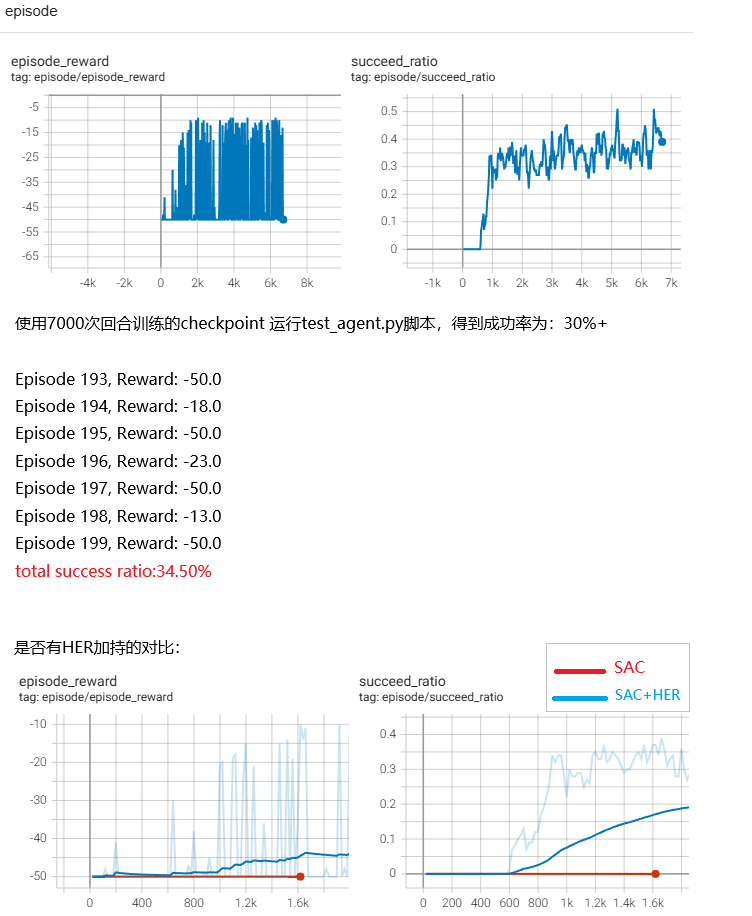
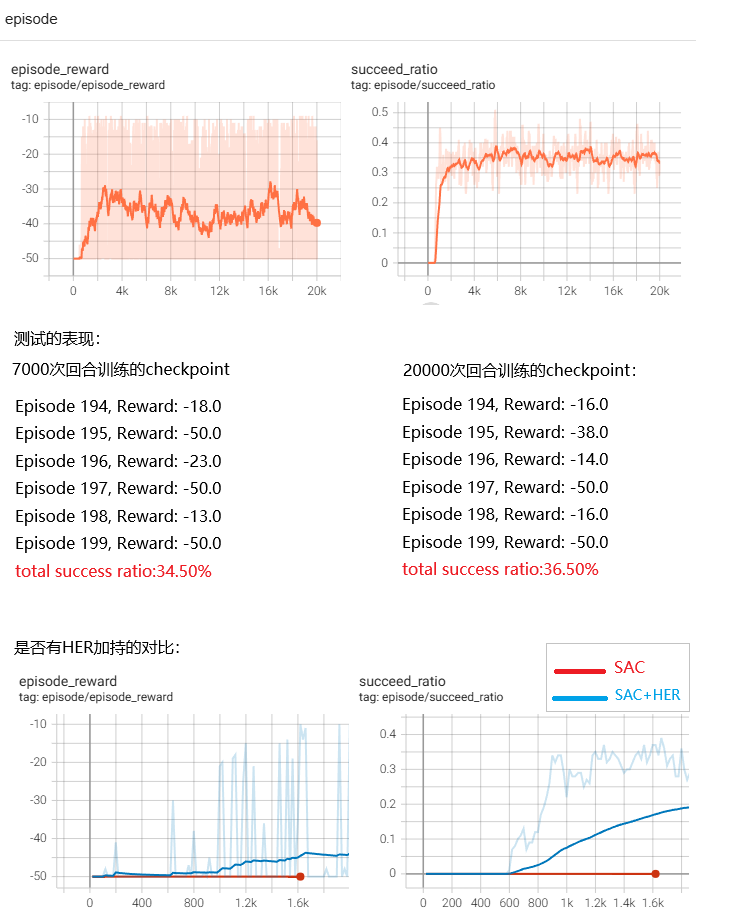
x

diff --git a/HER.md b/HER.md
@@ -684,64 +684,70 @@ def main():
     device = "cpu"
 
     # Initialize SAC agent
-    sac = SAC(state_dim, action_dim, device=device)
+    sac = SAC(state_dim, action_dim, device=device, writer=writer)
     save_dir = "checkpoints/"
     os.makedirs(save_dir, exist_ok=True)
 
     # Set hyperparameters
-    max_episodes = 20000 # max number of episodes to stop training
+    max_episodes = 10000 # max number of episodes to stop training
     steps_cnt = 0
     episode_length = env._max_episode_steps # the default is 50
-    batch_size = 256
+    batch_size = 128
     num_random_episodes = batch_size
     save = True
     success_record = deque(maxlen=100)
 
     for episode in range(max_episodes):
-        obs, _ = env.reset()
-        episode_reward = 0
-        trajectory = []
+        # 按照论文的描述，调整为：
+        # 每个episode做两个事情：
+        # 1、收集 16次轨迹
+        # 2、对model做40次mini-batch update
+        for _ in range(16):
+            obs, _ = env.reset()
+            episode_reward = 0
+            trajectory = []
 
-        for t in range(episode_length):
-            # Create the state input by concatenating observation and desired goal
-            state = np.concatenate([obs['observation'], obs['desired_goal']])
+            for t in range(episode_length):
+                # Create the state input by concatenating observation and desired goal
+                state = np.concatenate([obs['observation'], obs['desired_goal']])
 
-            # Select action
-            action = sac.select_action(state)
+                # Select action
+                action = sac.select_action(state)
 
-            # Step in the environment
-            next_obs, reward, terminated, truncated, _ = env.step(action)
-            done = terminated or truncated
-            steps_cnt += 1
+                # Step in the environment
+                next_obs, reward, terminated, truncated, _ = env.step(action)
+                done = terminated or truncated
+                steps_cnt += 1
 
 
-            # Append transition to trajectory
-            trajectory.append((obs, action, reward, next_obs, done))
-            obs = next_obs
-            episode_reward += reward
+                # Append transition to trajectory
+                trajectory.append((obs, action, reward, next_obs, done))
+                obs = next_obs
+                episode_reward += reward
 
-            if done:
-                break
+                if done:
+                    break
 
-        # Store trajectory in the HER replay buffer
-        sac.replay_buffer.store_trajectory(trajectory)
+            # Store trajectory in the HER replay buffer
+            sac.replay_buffer.store_trajectory(trajectory)
 
-        # Train the SAC agent, 这样写有点奇怪，一般不是写在时间步的循环里嘛
-        if len(sac.replay_buffer) > num_random_episodes*4:
-            for _ in range(episode_length):
+            # Define success (if last position is within 0.05 of the goal)
+            success = np.linalg.norm(obs['achieved_goal'] - obs['desired_goal']) < 0.05
+            success_record.append(success)
+
+        # Train the SAC agent
+        if len(sac.replay_buffer) > num_random_episodes:
+            for _ in range(40):
                 sac.update(batch_size)
 
-        # Define success (if last position is within 0.05 of the goal)
-        success = np.linalg.norm(obs['achieved_goal'] - obs['desired_goal']) < 0.05
-        success_record.append(success)
 
-        if (episode+1) % 20 == 0:
-            writer.add_scalar("episode/succeed_ratio", success_record.count(1) / 100.0, episode)
-            writer.add_scalar("episode/episode_reward", episode_reward, episode)
-            print(f"Episode {episode}, Reward: {episode_reward}, Succcess: {success}")
+
+        writer.add_scalar("episode/succeed_ratio", success_record.count(1) / 100.0, episode)
+        writer.add_scalar("episode/episode_reward", episode_reward, episode)
+        print(f"Episode {episode}, Reward: {episode_reward}, Succcess: {success}")
         
         # save model in every 1000 episodes
-        if save and (episode + 1) % 500 == 0:
+        if save and (episode + 1) % 1000 == 0:
             agent_path = os.path.join(save_dir, f"sac_her_fetchreach_{episode + 1}.pth")
             replay_buffer_path = os.path.join(save_dir, f"replay_buffer_{episode + 1}.pkl")
             save_agent(sac, agent_path)
